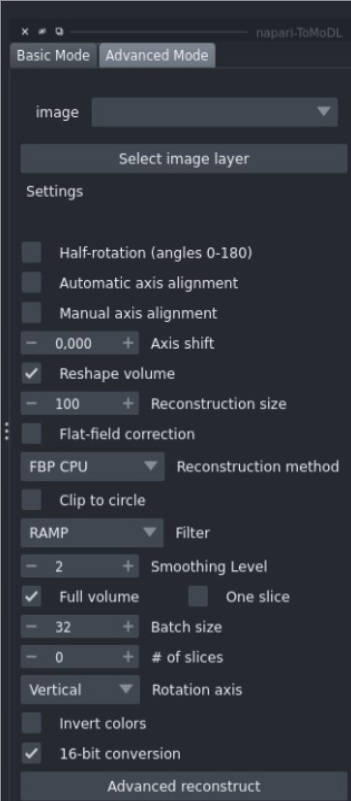
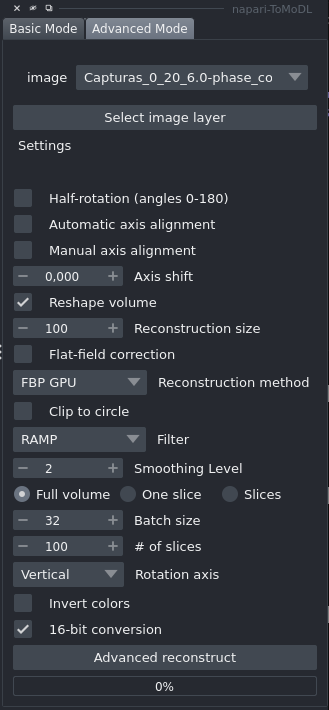
fix advanced mode

diff --git a/napari-tomodl/src/napari_tomodl/_reconstruction_widget.py b/napari-tomodl/src/napari_tomodl/_reconstruction_widget.py
@@ -274,14 +274,33 @@ class ReconstructionWidget(QTabWidget):
         )
         radio_layout = QHBoxLayout()
 
-        self.fullvolume_advanced = Settings(
-            "Full volume", dtype=bool, initial=True, layout=radio_layout, write_function=self.set_opt_processor_advanced
-        )
-        self.is_reconstruct_one_advanced = Settings(
-            "One slice", dtype=bool, initial=False, layout=radio_layout, write_function=self.set_opt_processor_advanced
-        )
+        # self.fullvolume_advanced = Settings(
+        #     "Full volume", dtype=bool, initial=True, layout=radio_layout, write_function=self.set_opt_processor_advanced
+        # )
+        # self.is_reconstruct_one_advanced = Settings(
+        #     "One slice", dtype=bool, initial=False, layout=radio_layout, write_function=self.set_opt_processor_advanced
+        # )
+        self.fullvolume_advanced_mode = QRadioButton("Full volume")
+        self.one_slice_advanced_mode = QRadioButton("One slice")
+        self.multiple_slices_advanced = QRadioButton("Slices")
+        self.fullvolume_advanced_mode.setChecked(True)   # Full volume = True
+        self.one_slice_advanced_mode.setChecked(False)   # One slice = False
+        self.multiple_slices_advanced.setChecked(False)   # Multiple slices = False
+        # Add to button group for mutual exclusivity
+        self.radio_group_advanced = QButtonGroup()
+        self.radio_group_advanced.addButton(self.fullvolume_advanced_mode, 0)  # id 0 -> Full volume
+        self.radio_group_advanced.addButton(self.one_slice_advanced_mode, 1)     # id 1 -> One slice
+        self.radio_group_advanced.addButton(self.multiple_slices_advanced, 2)     # id 2 -> Multiple slices
+        self.radio_group_advanced.setExclusive(True)
 
-        # Add the horizontal layout to the provided slayout
+        # Connect signal to update function
+        self.radio_group_advanced.idClicked.connect(self.set_opt_processor_advanced)
+
+        # Add to layout
+        radio_layout.addWidget(self.fullvolume_advanced_mode)
+        radio_layout.addWidget(self.one_slice_advanced_mode)
+        radio_layout.addWidget(self.multiple_slices_advanced)
+        # Add layout to slayout
         slayout.addLayout(radio_layout)
 
         self.batch_size_advanced = Settings(
@@ -586,13 +605,13 @@ class ReconstructionWidget(QTabWidget):
 
             # Reconstruction process
             # if reconstructing only one slice
-            if self.is_reconstruct_one_advanced.val == True and self.fullvolume_advanced.val == False and self.input_type == "3D":
+            if self.one_slice_advanced_mode.isChecked() and self.input_type == "3D":
                 slices_reconstruction = [self.slices_advanced.val]
             # if reconstructing full volume or multiple slices
-            elif self.input_type == "3D":
-                slices_reconstruction = range(self.h_advanced.Z if self.fullvolume_advanced.val == True else self.slices_advanced.val)
+            elif self.multiple_slices_advanced.isChecked() and self.input_type == "3D":
+                slices_reconstruction = range(self.slices_advanced.val)
             else:
-                slices_reconstruction = [0]
+                slices_reconstruction = range(self.h_advanced.Z)
 
             batch_start = slices_reconstruction[0]
             # if use GPU process in batch to improve performance
@@ -637,9 +656,7 @@ class ReconstructionWidget(QTabWidget):
             
             #  change the scale instead of resizing ################################### TODO: change this to resizing
             if self.reshapebox_advanced.val:
-                if self.fullvolume_advanced.val == True and self.input_type == "3D":
-                    self.scale_image_advanced = [self.scale_image_advanced[0] / original_size * self.resizebox_advanced.val, self.scale_image_advanced[1], self.scale_image_advanced[2]]
-                elif self.input_type == "3D" and self.fullvolume_advanced.val == False and self.is_reconstruct_one_advanced.val == False:
+                if (self.fullvolume_advanced_mode.isChecked() or self.multiple_slices_advanced.isChecked()) and self.input_type == "3D":
                     self.scale_image_advanced = [self.scale_image_advanced[0] / original_size * self.resizebox_advanced.val, self.scale_image_advanced[1], self.scale_image_advanced[2]]
                 else:
                     self.scale_image_advanced = [1., 1.]
@@ -661,13 +678,16 @@ class ReconstructionWidget(QTabWidget):
 
             print("reconstruction shape: ", optVolume.shape)
 
-            if self.is_reconstruct_one_advanced.val == True and self.fullvolume_advanced.val == False and self.input_type == "3D":
+            if self.one_slice_advanced_mode.isChecked() and self.input_type == "3D":
                 print("scale image advanced: ", self.scale_image_advanced)
                 return optVolume[self.slices_advanced.val]
-            elif self.input_type == "3D":
+            elif self.fullvolume_advanced_mode.isChecked() and self.input_type == "3D":
                 return optVolume
+            elif self.multiple_slices_advanced.isChecked() and self.input_type == "3D":
+                return optVolume[range(self.slices_advanced.val)]
             else:
                 return optVolume[0]
+
 
         _reconstruct_advanced()
 

diff --git a/napari-tomodl/setup.py b/napari-tomodl/setup.py
@@ -5,7 +5,7 @@ with open("README.md", "r", encoding="utf-8") as fh:
 
 setup(
     name="napari-tomodl",
-    version="0.2.22",
+    version="0.2.23",
     description="A plugin for optical projection tomography reconstruction with model-based neural networks.",
     long_description=long_description,
     long_description_content_type="text/markdown",
